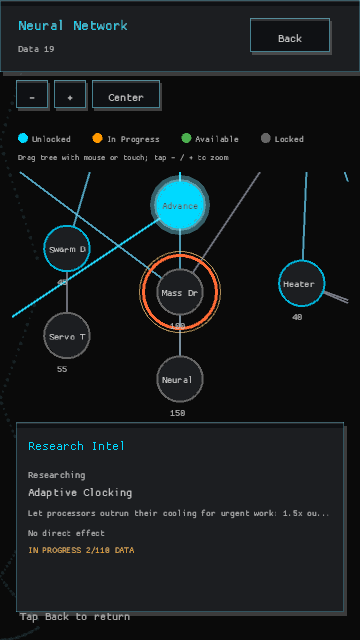
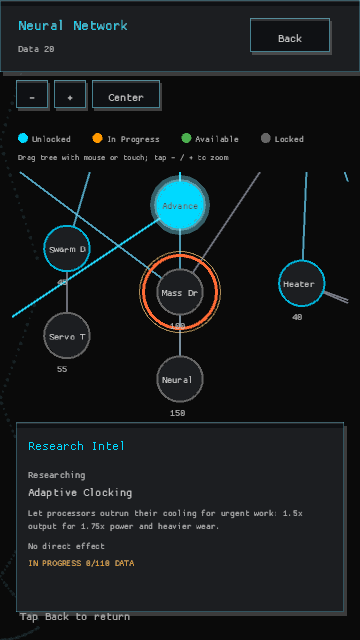
The research drawer speaks in two lines (mobile research UI, GDD 5)
Long research descriptions were reduced to a single truncated line in the compact Intel drawer, hiding the actual tradeoff behind upgrades such as Adaptive Clocking. Wrap the description into two lines and move the remaining status content down with it, preserving the fixed-height drawer and touch controls. Refresh the narrow-screen verification capture to prove the copy remains inside the panel.

diff --git a/src/screens/research_view/compact.rs b/src/screens/research_view/compact.rs
@@ -3,6 +3,8 @@
 use super::*;
 
 const SHORT_PHONE_TREE_HEIGHT: f32 = 120.0;
+const MOBILE_DESCRIPTION_LINE_HEIGHT: f32 = 13.0;
+const MOBILE_DESCRIPTION_MAX_LINES: usize = 2;
 
 fn compact_legend_labels(screen_w: f32) -> [&'static str; 4] {
     if screen_w < 300.0 {
@@ -355,15 +357,19 @@ fn draw_mobile_node_info(
         14.0,
         Colors::TEXT,
     );
-    draw_ui_text(
-        &truncate_text_to_width(&node.description, text_w, 11.0),
-        panel_x + 12.0,
-        y + 38.0,
-        11.0,
-        Colors::TEXT_DIM,
-    );
+    let description_lines = mobile_description_lines(&node.description, text_w, 11.0);
+    for (line_index, line) in description_lines.iter().enumerate() {
+        draw_ui_text(
+            line,
+            panel_x + 12.0,
+            y + 38.0 + line_index as f32 * MOBILE_DESCRIPTION_LINE_HEIGHT,
+            11.0,
+            Colors::TEXT_DIM,
+        );
+    }
 
-    let mut detail_y = y + 58.0;
+    let mut detail_y =
+        y + 38.0 + description_lines.len() as f32 * MOBILE_DESCRIPTION_LINE_HEIGHT + 7.0;
     for (text, color) in node_effects(data, node_id) {
         draw_ui_text(
             &truncate_text_to_width(&text, text_w, 11.0),
@@ -437,6 +443,18 @@ fn draw_mobile_node_info(
         11.0,
         color,
     );
+}
+
+fn mobile_description_lines(text: &str, text_w: f32, font_size: f32) -> Vec<String> {
+    let mut lines = wrap_text(text, text_w, font_size);
+    let truncated = lines.len() > MOBILE_DESCRIPTION_MAX_LINES;
+    lines.truncate(MOBILE_DESCRIPTION_MAX_LINES);
+    if truncated {
+        if let Some(last) = lines.last_mut() {
+            *last = truncate_text_to_width(&format!("{last}..."), text_w, font_size);
+        }
+    }
+    lines
 }
 
 #[cfg(test)]

diff --git a/src/screens/research_view.rs b/src/screens/research_view.rs
@@ -5,7 +5,9 @@ use crate::state::StatReading;
 use crate::ui::{draw_button_sized, draw_panel, Colors, Dimensions};
 use macroquad::prelude::*;
 use macroquad_toolkit::math::pulse01;
-use macroquad_toolkit::ui::{draw_ui_text, measure_ui_text, truncate_text_to_width, Pointer};
+use macroquad_toolkit::ui::{
+    draw_ui_text, measure_ui_text, truncate_text_to_width, wrap_text, Pointer,
+};
 
 mod compact;
 mod effects;
